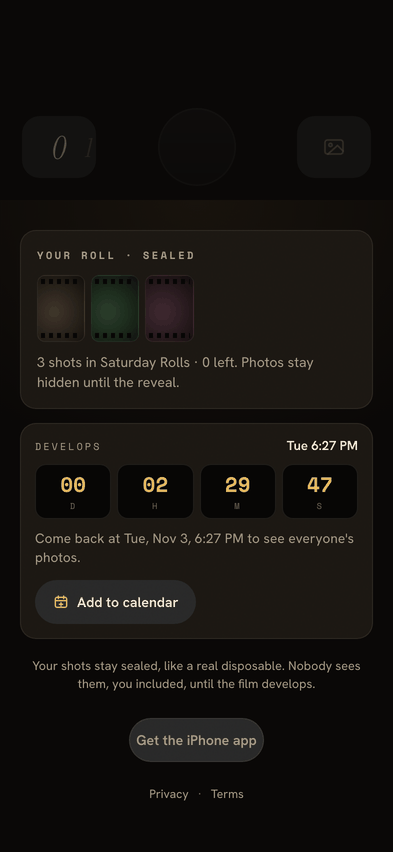
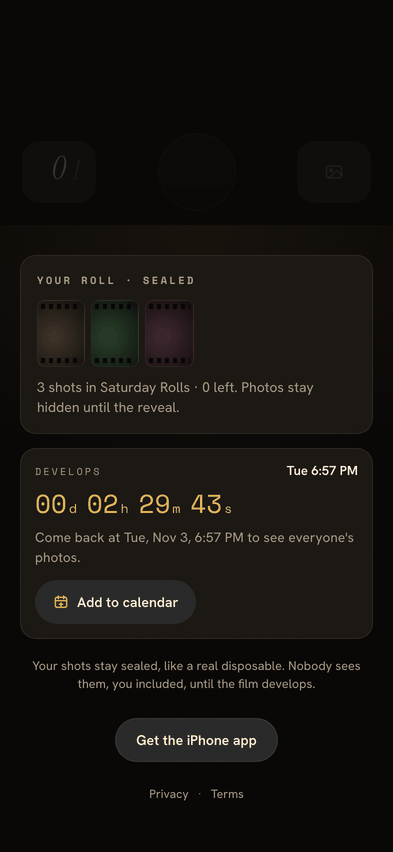
Web join camera: QA fixes (focus trap on WebKit, layout, app fidelity)
- Focus trap always moves focus itself, so Safari's default Tab can't leave the
  name sheet, QR sheet or lightbox; the page behind is inert while open.
  Focus returns to the QR button / Join button even where clicks don't focus.
- Viewfinder sits under the header; the flash/zoom/flip row collapses when the
  browser offers none; app spacing and 18/20 px glyphs; muted subtitle.
- Counter: one neighbour each side at the app's 7 pt gap, measured centring.
- Roll finished: app copy ("You're out of shots", serif) and whole-screen dim
  (E2E regex updated for the copy). Single brass reveal readout.
- Name sheet, album (stats, avatars 4 + N, no captions, flat recap CTA, 6 px
  grid), lightbox (edge to edge, cream save, brass close) and capsule toasts
  match the app; "Get the iPhone app" no longer looks disabled.
- Camera stream requested at ~1920 long edge to keep the per-frame GPU upload
  light on mid-range phones; a missing cube is fetched once.

diff --git a/join.html b/join.html
@@ -33,7 +33,7 @@
 <!-- CSP (security L7). script-src allows only same-origin files and the one inline
      script below by hash: after editing that script, run `node scripts/csp-hash.mjs`.
      The invite Worker passes data in a non-executable application/json block. -->
-<meta http-equiv="Content-Security-Policy" content="default-src 'self'; script-src 'self' 'sha256-mkZNaMJGRH/qTK672dEB/vyqcUiq5PVKREojTLIS2lI='; style-src 'self' 'unsafe-inline' https://fonts.googleapis.com; font-src https://fonts.gstatic.com; img-src 'self' data: blob: https:; media-src 'self' blob: https:; connect-src 'self' https://elated-gopher-868.convex.site https://elated-gopher-868.convex.cloud https://resilient-goat-339.convex.site https://resilient-goat-339.convex.cloud https://media.getfilmsera.cam; base-uri 'none'; form-action 'self'; object-src 'none'" />
+<meta http-equiv="Content-Security-Policy" content="default-src 'self'; script-src 'self' 'sha256-HsMN/+o3fMmspB1YfvcPYee+7n3/ZYbMvvz3W8i/G38='; style-src 'self' 'unsafe-inline' https://fonts.googleapis.com; font-src https://fonts.gstatic.com; img-src 'self' data: blob: https:; media-src 'self' blob: https:; connect-src 'self' https://elated-gopher-868.convex.site https://elated-gopher-868.convex.cloud https://resilient-goat-339.convex.site https://resilient-goat-339.convex.cloud https://media.getfilmsera.cam; base-uri 'none'; form-action 'self'; object-src 'none'" />
 <link rel="preconnect" href="https://fonts.googleapis.com" />
 <link rel="preconnect" href="https://fonts.gstatic.com" crossorigin />
 <link href="https://fonts.googleapis.com/css2?family=Instrument+Serif:ital@0;1&family=Hanken+Grotesk:wght@400;500;600;700&family=Space+Mono:wght@400;700&display=swap" rel="stylesheet" />
@@ -211,12 +211,15 @@
   .panel::before{content:"";position:absolute;top:8px;left:50%;width:36px;height:5px;margin-left:-18px;border-radius:3px;background:rgba(244,236,221,.22);}
   @keyframes up{from{transform:translateY(60px);opacity:.3}}
   @media (min-width:900px){.modal{align-items:center}.panel{border-radius:28px;border-bottom:1px solid var(--hairline);}.panel::before{display:none}}
-  .panel h2{font-family:var(--display);font-weight:400;font-size:34px;line-height:1.02;margin-top:8px;}
+  .panel h2{font-family:var(--display);font-weight:400;font-size:30px;line-height:1.05;margin-top:8px;}
   .panel p.sub{color:var(--muted);font-size:15px;line-height:1.45;margin-top:8px;}
-  .field{width:100%;margin-top:18px;padding:16px 18px;border-radius:14px;background:var(--deep);border:1px solid var(--hair-2);color:var(--cream);font:500 17px var(--body);outline:none;}
+  .field{width:100%;margin-top:22px;padding:14px;border-radius:13px;background:var(--elev);border:1px solid var(--hair-2);color:var(--cream);font:400 16px var(--body);outline:none;}
+  .modal .panel{background:#14110D;}
+  .field:focus-visible{outline:none;}
   .field:focus{border-color:var(--brass);}
   .err{min-height:20px;margin-top:10px;font-size:13.5px;color:#F08A6A;}
-  .panel .cta{margin-top:6px;}
+  .panel .cta,.album .recap{margin-top:6px;padding:14px 24px;background:var(--brass);box-shadow:none;font-family:var(--body);font-size:16px;font-weight:700;letter-spacing:0;}
+  .panel .cta::after,.album .recap::after{display:none;}
   .panel .cta[disabled]{opacity:.6;}
   .panel .fine a{color:var(--cream);}
   .linkbtn{display:block;margin:14px auto 0;font-size:14px;color:var(--muted);text-decoration:underline;text-underline-offset:3px;}
@@ -232,17 +235,17 @@
   .g-top{display:flex;align-items:center;gap:8px;padding:4px 14px 0;}
   .hdr-btn{width:44px;height:44px;flex:none;display:grid;place-items:center;border-radius:12px;color:var(--cream);text-decoration:none;transition:transform .2s var(--spring);}
   .hdr-btn:active{transform:scale(.92);}
-  .hdr-btn svg{width:22px;height:22px;}
+  .hdr-btn svg{width:20px;height:20px;}
   .hdr-btn.tile-btn{background:var(--graphite);}
-  .hdr-btn.tile-btn svg{width:20px;height:20px;}
+  .hdr-btn.tile-btn svg{width:18px;height:18px;}
   .hdr-btn .mark{width:24px;height:18px;}
   .g-head{flex:1;min-width:0;text-align:center;}
   .g-title{font-family:var(--display);font-weight:400;font-size:26px;line-height:1.1;white-space:nowrap;overflow:hidden;text-overflow:ellipsis;}
   .g-sub{margin-top:2px;font-size:15px;color:var(--muted);white-space:nowrap;overflow:hidden;text-overflow:ellipsis;font-variant-numeric:tabular-nums;}
-  .g-sub .chip{display:inline;padding:0;border:0;background:none;-webkit-backdrop-filter:none;backdrop-filter:none;font:inherit;letter-spacing:0;text-transform:none;color:var(--cream);}
+  .g-sub .chip{display:inline;padding:0;border:0;background:none;-webkit-backdrop-filter:none;backdrop-filter:none;font:inherit;letter-spacing:0;text-transform:none;color:inherit;}
 
   /* Viewfinder card: shaped to the look's output aspect, as big as the space allows. */
-  .vf-wrap{flex:1;min-height:0;margin:14px 16px 0;container-type:size;display:grid;place-items:center;}
+  .vf-wrap{flex:1;min-height:0;margin:14px 16px 0;container-type:size;display:grid;place-items:start center;}
   .vf{position:relative;width:min(100cqw,100cqh * var(--ar,.75));aspect-ratio:var(--ar,.75);border-radius:28px;overflow:hidden;background:var(--deep);
     -webkit-mask-image:-webkit-radial-gradient(white,black);touch-action:pan-y;}
   .vf video,.vf canvas{position:absolute;inset:0;width:100%;height:100%;object-fit:cover;display:block;}
@@ -254,6 +257,9 @@
     color:var(--muted);font-size:15px;line-height:1.45;background:radial-gradient(80% 60% at 40% 45%,rgba(230,180,80,.07),transparent 70%),var(--deep);}
   .vf .msg .mark{width:42px;height:31px;opacity:.55;}
   .vf .msg h2{font-family:var(--display);font-weight:400;font-size:28px;line-height:1.05;color:var(--cream);}
+  .vf .msg.done{gap:16px;}
+  .vf .msg.done h2{font-size:24px;}
+  .vf .msg.done p{font-family:var(--display);font-size:18px;line-height:1.3;color:var(--muted);}
   .vf .msg.done{background:rgba(0,0,0,.82);}
   .vf .msg.done .mark{opacity:1;width:52px;height:38px;}
   .vf .msg .pill{margin-top:4px;display:inline-flex;align-items:center;min-height:44px;padding:0 24px;border-radius:999px;background:var(--brass);color:var(--brass-deep);
@@ -278,10 +284,11 @@
   @keyframes ret{0%{transform:scale(1.5);opacity:0}25%{transform:scale(1);opacity:1}80%{opacity:1}100%{opacity:0}}
 
   /* Flash · zoom · flip */
-  .ctrl{display:grid;grid-template-columns:44px 1fr 44px;align-items:center;padding:14px 22px 0;}
+  .ctrl{display:grid;grid-template-columns:44px 1fr 44px;align-items:center;padding:22px 22px 0;}
+  .ctrl.empty{display:none;}
   .icon-btn{width:44px;height:44px;display:grid;place-items:center;color:var(--cream);transition:transform .2s var(--spring);}
   .icon-btn:active{transform:scale(.9);}
-  .icon-btn svg{width:24px;height:24px;}
+  .icon-btn svg{width:20px;height:20px;}
   .icon-btn.on{color:var(--brass);}
   .icon-btn[hidden],.zoom[hidden]{display:grid;visibility:hidden;}
   .zoom{justify-self:center;display:flex;gap:2px;padding:4px;border-radius:999px;background:var(--graphite);}
@@ -291,13 +298,13 @@
   /* Deck: frame counter · shutter · sealed roll */
   .deck{display:flex;align-items:center;justify-content:space-between;padding:0 22px;margin-top:auto;padding-top:14px;}
   .tile{position:relative;width:74px;height:62px;flex:none;border-radius:18px;background:var(--graphite);overflow:hidden;display:grid;place-items:center;}
-  .counter .track{position:absolute;left:50%;top:0;bottom:0;width:calc(var(--slot,30px) * 5);margin-left:calc(var(--slot,30px) * -2.5);display:flex;align-items:center;padding-top:2px;
+  .counter .track{position:absolute;left:0;top:50%;margin-top:-20px;height:40px;display:flex;align-items:baseline;gap:7px;white-space:nowrap;
     transition:transform .14s cubic-bezier(.2,.9,.3,1);}
-  .counter .track span{width:var(--slot,30px);flex:none;text-align:center;font-family:var(--display);font-style:italic;font-size:26px;line-height:1;color:rgba(168,156,136,.45);}
+  .counter .track span{flex:none;font-family:var(--display);font-style:italic;font-size:26px;line-height:1;color:rgba(168,156,136,.45);}
   .counter .track span.cur{font-size:32px;color:var(--cream);}
   .sealed{color:rgba(168,156,136,.7);transition:transform .2s var(--spring);}
   .sealed:active{transform:scale(.97);}
-  .sealed svg{width:24px;height:24px;}
+  .sealed svg{width:20px;height:20px;}
   .sealed .pip{position:absolute;right:5px;bottom:5px;width:16px;height:16px;border-radius:50%;background:rgba(0,0,0,.55);display:none;}
   .sealed.busy .pip,.sealed.warn .pip{display:block;}
   .sealed.busy .pip::after{content:"";position:absolute;inset:3px;border-radius:50%;border:1.5px solid rgba(255,255,255,.25);border-top-color:#fff;animation:spin .8s linear infinite;}
@@ -308,7 +315,8 @@
   .shutter[disabled]{opacity:.35;cursor:default;}
   .shutter.busy::after{content:"";position:absolute;inset:-7px;border-radius:50%;border:2px solid transparent;border-top-color:var(--brass);animation:spin .8s linear infinite;}
   @keyframes spin{to{transform:rotate(360deg)}}
-  .cam.done .ctrl,.cam.done .deck{opacity:.3;pointer-events:none;}
+  .cam.done .ctrl,.cam.done .deck,.cam.done .g-top{opacity:.18;transition:opacity .3s;}
+  .cam.done .ctrl,.cam.done .deck{pointer-events:none;}
   .cam.done .deck .sealed{pointer-events:auto;}
   .round{width:44px;height:44px;border-radius:50%;display:grid;place-items:center;background:var(--graphite);color:var(--cream);}
   .round svg{width:22px;height:22px;}
@@ -330,17 +338,22 @@
   .neg.pending{opacity:.55;}
   .d-note{margin-top:10px;color:var(--muted);font-size:14px;line-height:1.45;}
   .guest .develop{margin-top:0;border-radius:16px;background:var(--elev);border-color:var(--hairline);}
-  .guest .develop .unit{background:var(--deep);}
+  .guest .develop .clock{display:flex;align-items:baseline;gap:10px;}
+  .guest .develop .unit{display:flex;align-items:baseline;gap:2px;padding:0;background:none;border:0;}
+  .guest .develop .unit b{font-size:26px;font-weight:400;}
+  .guest .develop .unit i{font-size:13px;letter-spacing:0;color:var(--brass);text-transform:lowercase;margin:0;}
   .guest .develop .cal{display:inline-flex;align-items:center;justify-content:center;gap:8px;min-height:44px;margin-top:2px;padding:0 18px;border-radius:999px;
     background:var(--graphite);font-size:14px;font-weight:600;color:var(--cream);text-decoration:none;justify-self:start;}
   .guest .develop .cal svg{width:16px;height:16px;color:var(--brass);}
   .guest .fine{margin-top:4px;}
   .d-foot{display:flex;flex-direction:column;align-items:center;gap:10px;margin-top:10px;color:var(--dim);font-size:12px;}
   .d-foot a{color:var(--muted);text-decoration:none;display:inline-flex;align-items:center;min-height:44px;padding:0 6px;}
+  .d-foot .btn2{color:var(--cream);padding:0 20px;}
 
-  .toast{position:fixed;left:50%;top:calc(76px + env(safe-area-inset-top));transform:translateX(-50%);z-index:70;width:max-content;max-width:min(92vw,440px);padding:11px 16px;border-radius:16px;
+  .toast{position:fixed;left:50%;top:calc(76px + env(safe-area-inset-top));transform:translateX(-50%);z-index:70;width:max-content;max-width:min(92vw,440px);padding:11px 18px;border-radius:22px;
     background:rgba(28,24,19,.96);border:1px solid var(--hair-2);font-size:14px;font-weight:500;line-height:1.4;text-align:center;box-shadow:0 18px 40px rgba(0,0,0,.5);
     animation:tin .35s var(--spring);}
+  .toast.ok{padding:10px 18px;border-radius:999px;background:var(--brass);border:0;color:var(--brass-deep);font-family:var(--mono);font-size:13px;font-weight:700;}
   @keyframes tin{from{opacity:0;transform:translate(-50%,-10px)}}
 
   /* ---- Album (FilmDetailView after the reveal) ---- */
@@ -348,37 +361,39 @@
     background:radial-gradient(120% 50% at 30% 0%,#18130D,transparent 70%);}
   .album .g-top{padding:0;justify-content:space-between;}
   .album .g-top .chip{max-width:60%;overflow:hidden;text-overflow:ellipsis;white-space:nowrap;}
-  .eyebrow-in{margin-top:26px;font-size:12px;letter-spacing:4px;color:var(--cream);}
-  .a-title{font-family:var(--display);font-weight:400;font-size:clamp(36px,10vw,46px);line-height:1.02;margin-top:12px;text-wrap:balance;}
+  .eyebrow-in{margin-top:26px;font-size:12px;letter-spacing:3px;color:var(--cream);}
+  .a-title{font-family:var(--display);font-weight:400;font-size:34px;line-height:1.05;margin-top:12px;text-wrap:balance;}
   .stats{display:grid;grid-template-columns:repeat(3,1fr);gap:10px;margin-top:22px;min-height:52px;}
-  .stats b{display:block;font-family:var(--mono);font-weight:400;font-size:24px;line-height:1.1;color:var(--cream);}
-  .stats span{display:block;margin-top:6px;font-family:var(--mono);font-size:11px;letter-spacing:1.4px;text-transform:uppercase;color:var(--muted);}
+  .stats b{display:block;font-family:var(--mono);font-weight:400;font-size:22px;line-height:1.1;color:var(--cream);}
+  .stats span{display:block;margin-top:8px;font-family:var(--mono);font-size:11px;letter-spacing:0;text-transform:uppercase;color:var(--muted);}
   .faces{display:flex;margin-top:18px;min-height:30px;}
-  .faces span{width:30px;height:30px;border-radius:50%;display:grid;place-items:center;margin-right:-7px;font-family:var(--display);font-size:15px;color:var(--cream);box-shadow:0 0 0 2px var(--bg);}
-  .album .recap{margin-top:22px;}
-  .grid{display:grid;grid-template-columns:repeat(3,1fr);gap:7px;margin-top:22px;}
+  .faces span{width:26px;height:26px;border-radius:50%;display:grid;place-items:center;margin-right:-8px;font-family:var(--display);font-size:13px;color:var(--cream);box-shadow:0 0 0 2px var(--bg);}
+  .faces .more-faces{margin-left:14px;width:auto;box-shadow:none;font-family:var(--mono);font-size:11px;color:var(--muted);}
+  .album .recap{margin-top:22px;min-height:56px;font-size:17px;}
+  .grid{display:grid;grid-template-columns:repeat(3,1fr);gap:6px;margin-top:22px;}
   .grid button{position:relative;aspect-ratio:1;overflow:hidden;border-radius:14px;background:var(--elev);display:block;width:100%;transition:transform .2s var(--spring);}
   .grid button:active{transform:scale(.97);}
   .grid img{width:100%;height:100%;object-fit:cover;display:block;opacity:0;transform:scale(1.04);transition:opacity .6s var(--ease),transform .9s var(--ease);}
   .grid img.loaded{opacity:1;transform:none;}
-  .grid .by{position:absolute;left:0;right:0;bottom:0;padding:18px 8px 6px;font-size:10.5px;font-weight:600;text-align:left;white-space:nowrap;overflow:hidden;text-overflow:ellipsis;
-    background:linear-gradient(transparent,rgba(0,0,0,.72));}
+  .grid .by{position:absolute;width:1px;height:1px;overflow:hidden;clip:rect(0 0 0 0);white-space:nowrap;}
   .grid .play{position:absolute;right:6px;top:6px;width:22px;height:22px;border-radius:50%;background:rgba(0,0,0,.55);display:grid;place-items:center;}
   .grid .play svg{width:10px;height:10px;}
   .album > .queue{min-height:18px;margin-top:14px;text-align:center;font-family:var(--mono);font-size:11.5px;color:var(--muted);}
   .album > .queue.warn{color:#F0B36A;}
   .empty-album{margin-top:30px;text-align:center;color:var(--muted);font-size:15px;line-height:1.5;}
   .more{margin:16px auto 0;}
-  .lightbox{position:fixed;inset:0;z-index:65;display:flex;flex-direction:column;background:#000;animation:fade .2s var(--ease);}
+  .lightbox{position:fixed;inset:0;z-index:65;display:flex;flex-direction:column;background:#060504;animation:fade .2s var(--ease);}
   .lb-top,.lb-bot{display:flex;align-items:center;justify-content:space-between;gap:10px;padding:calc(10px + env(safe-area-inset-top)) 16px 10px;}
-  .lb-bot{padding:10px 16px calc(16px + env(safe-area-inset-bottom));}
-  .lb-stage{flex:1;min-height:0;display:flex;align-items:center;justify-content:center;padding:0 8px;}
-  .lb-stage img,.lb-stage video{max-width:100%;max-height:100%;object-fit:contain;border-radius:6px;animation:lbin .35s var(--ease);}
+  .lb-bot{padding:12px 18px calc(18px + env(safe-area-inset-bottom));}
+  .lb-top [data-x]{background:rgba(0,0,0,.5);color:var(--brass);}
+  .lb-top [data-x] svg{width:16px;height:16px;stroke-width:3;}
+  .lb-stage{flex:1;min-height:0;display:flex;align-items:center;justify-content:center;padding:0;}
+  .lb-stage img,.lb-stage video{max-width:100%;max-height:100%;object-fit:contain;border-radius:0;animation:lbin .35s var(--ease);}
   @keyframes lbin{from{opacity:0;transform:scale(.97)}}
   .lb-who b{display:block;font-family:var(--display);font-weight:400;font-size:22px;line-height:1.1;}
   .lb-who span{font-family:var(--mono);font-size:11px;color:var(--muted);}
   .lb-nav{display:flex;gap:8px;}
-  .lb-bot .btn2{background:var(--brass);color:var(--brass-deep);font-family:var(--mono);font-weight:700;border:0;}
+  .lb-bot .btn2{flex:1;min-height:52px;border-radius:16px;background:var(--cream);color:var(--bg);font-family:var(--body);font-size:15px;font-weight:700;border:0;}
 
   @media (min-width:900px){
     .cam-mode{display:grid;grid-template-columns:420px 360px;gap:56px;align-items:center;justify-content:center;max-width:none;}
@@ -712,10 +727,11 @@
     });
   }
 
-  function toast(msg, ms = 4200) {
+  /** kind "ok" = the app's brass confirmation capsule. */
+  function toast(msg, ms = 4200, kind) {
     document.querySelectorAll(".toast").forEach(t => { if (t.textContent === msg) t.remove(); });
     const el = document.createElement("div");
-    el.className = "toast"; el.setAttribute("role", "status"); el.textContent = msg;
+    el.className = kind === "ok" ? "toast ok" : "toast"; el.setAttribute("role", "status"); el.textContent = msg;
     document.body.appendChild(el);
     setTimeout(() => el.remove(), ms);
   }
@@ -772,11 +788,12 @@
         <p class="fine">No account needed. By joining you agree to the <a href="/terms.html" target="_blank" rel="noopener">Terms</a> and <a href="/privacy.html" target="_blank" rel="noopener">Privacy Policy</a>.</p>
         <button class="linkbtn" type="button" data-close>Not now</button>
       </form>`;
-    const opener = document.activeElement;
-    document.body.appendChild(m);
+    const active = document.activeElement;
+    const opener = active && active.matches && active.matches("[data-webjoin]") ? active : app.querySelector("[data-webjoin]");
+    document.body.appendChild(m); setInert(true);
     const form = m.querySelector("form"), input = form.name, err = form.querySelector(".err"), btn = form.querySelector(".cta");
     const close = (restore = true) => {
-      m.remove(); document.removeEventListener("keydown", onKey);
+      m.remove(); setInert(false); document.removeEventListener("keydown", onKey);
       if (restore && opener && opener.isConnected && opener.focus) opener.focus();
     };
     const onKey = e => { if (e.key === "Escape") close(); else trapTab(e, form); };
@@ -817,10 +834,14 @@
     const els = [...root.querySelectorAll('a[href],button:not([disabled]),input:not([disabled]),video[controls],[tabindex]:not([tabindex="-1"])')]
       .filter(el => el.offsetParent !== null || el === document.activeElement);
     if (!els.length) return;
-    const first = els[0], last = els[els.length - 1];
-    if (e.shiftKey && (document.activeElement === first || !root.contains(document.activeElement))) { e.preventDefault(); last.focus(); }
-    else if (!e.shiftKey && (document.activeElement === last || !root.contains(document.activeElement))) { e.preventDefault(); first.focus(); }
+    // Always move focus ourselves: Safari's default Tab skips buttons and links,
+    // so leaving it to the browser lets focus escape behind the dialog (QA F1).
+    e.preventDefault();
+    const n = els.length, i = els.indexOf(document.activeElement);
+    els[i < 0 ? (e.shiftKey ? n - 1 : 0) : (i + (e.shiftKey ? -1 : 1) + n) % n].focus();
   }
+  /** Keep the page behind a dialog out of reach (Tab, VoiceOver) while it's open. */
+  const setInert = on => { try { app.inert = on; if (on) app.setAttribute("aria-hidden", "true"); else app.removeAttribute("aria-hidden"); } catch (_) {} };
 
   // ---------------------------------------------------------------- pending shots (IndexedDB)
 
@@ -878,7 +899,6 @@
   //   across long edge, density sigma, chroma] · s sound · h haptic style
   const LOOKS = {"dzfilm":{"n":"DZ Film","a":1.333,"v":[0.4,2.2],"s":"slr","h":"slr","g":[2400,0.058,0.5]},"disposable":{"n":"Disposable","a":1.5,"v":[1.25,3],"s":"disposable","h":"disposable","g":[1600,0.088,0.5]},"instant":{"n":"Instant","a":1.0,"v":[0.25,2],"s":"instant","h":"instant","g":[300,0.006,0]},"vhs":{"n":"VHS","a":1.333,"v":[0.336,2.2],"s":"video","h":"video"},"eightmm":{"n":"8mm","a":1.333,"v":[1,2],"s":"video","h":"video","g":[390,0.09,0.5]},"digi":{"n":"Digicam","a":1.333,"v":[0.3,2],"s":"digital","h":"digital"},"note":{"n":"Notebook","a":1.333,"v":[0.403,2.2],"s":"digital","h":"slr","g":[2700,0.03,0.5]},"oldiphone":{"n":"Pocket Cam","a":1.333,"v":[1.2,2.2],"s":"digital","h":"digital"},"slide":{"n":"Slide","a":1.333,"v":[0.6,2],"s":"slr","h":"slr","g":[3300,0.04,0.5]},"cpm35":{"n":"Sprocket 35","a":1.5,"v":[0.6,2.2],"s":"slr","h":"slr","g":[2100,0.05,0.5]},"glow":{"n":"Glow","a":1.333,"v":[0.4,2.2],"s":"slr","h":"slr","g":[1800,0.052,0.5]},"d3d":{"n":"Anaglyph","a":1.333,"v":[0.448,2.2],"s":"digital","h":"digital","g":[2400,0.037,0.5]},"instasqc":{"n":"Pastel Square","a":1.0,"v":[0.25,2],"s":"instant","h":"instant","g":[300,0.005,0]},"sixteenmm":{"n":"16mm","a":1.333,"v":[0.896,2.2],"s":"video","h":"video","g":[690,0.07,0.3]},"dcr":{"n":"Camcorder","a":1.333,"v":[0.269,2.2],"s":"video","h":"video"},"kino":{"n":"Kino","a":2.39,"v":[0.5,2.2],"s":"slr","h":"slr","g":[2400,0.041,0.5]},"s67":{"n":"Heirloom","a":1.167,"v":[0.35,2],"s":"slr","h":"slr","g":[4700,0.034,0.5]},"grf":{"n":"Noir","a":1.5,"v":[1,2.5],"s":"slr","h":"slr","g":[1000,0.11,0]},"original":{"n":"Original","a":1.5,"v":[0.5,2.2],"s":"slr","h":"slr","g":[2400,0.045,0.5]},"college":{"n":"Yearbook","a":1.333,"v":[1.2,2.5],"s":"disposable","h":"disposable","g":[1800,0.062,0.5]},"noga":{"n":"Light Leak","a":1.333,"v":[1.75,2.5],"s":"slr","h":"slr","g":[2100,0.06,0.5]},"gulf":{"n":"Sunbleached","a":1.5,"v":[0.6,2.2],"s":"slr","h":"slr","g":[2400,0.029,0.5]},"vfone":{"n":"Keychain","a":1.333,"v":[0.5,2],"s":"digital","h":"digital"},"tam":{"n":"Toy Cam","a":1.0,"v":[2.5,3.5],"s":"disposable","h":"disposable","g":[2100,0.06,0.5]},"ne135":{"n":"Midnight","a":1.35,"v":[0.784,2.2],"s":"slr","h":"slr","g":[1800,0.055,0.5]}};
   // A film with no (or an unknown) presetID shoots the app's default look.
-  // (The /web/* film summary doesn't carry presetID yet; the invite Worker's copy may.)
   const lookIdOf = f => {
     const id = (f && f.presetID) || (injected && injected.film && injected.film.presetID);
     return LOOKS[id] ? id : "original";
@@ -891,7 +911,7 @@
   function loadLut(id) {
     if (!lutCache[id]) lutCache[id] = new Promise((res, rej) => {
       const im = new Image(); im.decoding = "async";
-      im.onload = () => res(im); im.onerror = () => { delete lutCache[id]; rej(new Error("lut")); };
+      im.onload = () => res(im); im.onerror = () => rej(new Error("lut")); // a missing cube is asked for once per page
       im.src = `/assets/looks/${id}.png`;
     });
     return lutCache[id];
@@ -1267,7 +1287,7 @@ void main(){vec2 q=vec2(v.x,1.-v.y);if(mirror>.5)q.x=1.-q.x;
             <div class="hint" id="hint" aria-live="polite"></div>
             <div class="blink${look.h === "instant" ? " white" : ""}" id="flash"></div>
           </div></div>
-          <div class="ctrl">
+          <div class="ctrl empty">
             <button class="icon-btn" id="torch" type="button" aria-label="Flash" aria-pressed="false" hidden>${ICON.boltOff}</button>
             <div class="zoom" id="zoom" role="group" aria-label="Zoom" hidden></div>
             <button class="icon-btn" id="flip" type="button" aria-label="Switch camera, front or back" hidden>${ICON.flip}</button>
@@ -1330,10 +1350,10 @@ void main(){vec2 q=vec2(v.x,1.-v.y);if(mirror>.5)q.x=1.-q.x;
           <button class="copy" type="button" data-copylink>Copy link</button></div>
         <button class="linkbtn" type="button" data-close>Done</button>
       </div>`;
-    const opener = document.activeElement;
-    document.body.appendChild(m);
+    const opener = document.getElementById("qrbtn"); // WebKit doesn't focus clicked buttons (QA F2)
+    document.body.appendChild(m); setInert(true);
     const panel = m.querySelector(".panel");
-    const close = () => { m.remove(); document.removeEventListener("keydown", onKey); if (opener && opener.isConnected && opener.focus) opener.focus(); };
+    const close = () => { m.remove(); setInert(false); document.removeEventListener("keydown", onKey); if (opener && opener.isConnected && opener.focus) opener.focus(); };
     const onKey = e => { if (e.key === "Escape") close(); else trapTab(e, panel); };
     document.addEventListener("keydown", onKey);
     m.addEventListener("click", e => { if (e.target === m) close(); });
@@ -1368,13 +1388,15 @@ void main(){vec2 q=vec2(v.x,1.-v.y);if(mirror>.5)q.x=1.-q.x;
     el.setAttribute("aria-label", spoken);
     const prev = el.dataset.v === undefined ? null : +el.dataset.v;
     if (prev === value) return;
-    const slot = String(value + 2).length > 2 ? 58 : String(value + 2).length > 1 ? 44 : 30;
-    track.style.setProperty("--slot", `${slot}px`);
-    track.innerHTML = [value - 2, value - 1, value, value + 1, value + 2]
-      .map((n, i) => `<span class="${i === 2 ? "cur" : ""}">${n >= 0 ? n : ""}</span>`).join("");
+    track.innerHTML = [value - 1, value, value + 1] // the app shows one neighbour each side
+      .map((n, i) => `<span class="${i === 1 ? "cur" : ""}">${n >= 0 ? n : "\u2007"}</span>`).join("");
+    const centre = i => { const c = track.children[i]; return c.offsetLeft + c.offsetWidth / 2; };
+    const place = () => { track.style.left = `${el.clientWidth / 2 - centre(1)}px`; };
+    place();
+    if (document.fonts && document.fonts.status !== "loaded") document.fonts.ready.then(place);
     if (prev !== null && !reduced) {
-      const dir = Math.sign(value - prev);
-      track.style.transition = "none"; track.style.transform = `translateX(${dir * slot}px)`;
+      const dir = Math.sign(value - prev); // the old number sits one step that way in the new strip
+      track.style.transition = "none"; track.style.transform = `translateX(${centre(1) - centre(1 - dir)}px)`;
       void track.offsetWidth;
       track.style.transition = ""; track.style.transform = "";
     }
@@ -1417,7 +1439,8 @@ void main(){vec2 q=vec2(v.x,1.-v.y);if(mirror>.5)q.x=1.-q.x;
         if (rollWasOpen && !msg.classList.contains("done")) { sound("roll_finished"); haptic("instant"); }
         rollWasOpen = false;
         msg.style.display = "flex"; msg.classList.add("done");
-        msg.innerHTML = `<span class="mark"></span><h2>That's your roll.</h2><span>Your shots are sealed until the film develops.</span><button class="pill" type="button" data-details>See when it develops</button>`;
+        const n = G.shotsUsed + G.pending;
+        msg.innerHTML = `<span class="mark"></span><h2>You're out of shots</h2><p>${n} ${n === 1 ? "shot" : "shots"} in ${esc(G.film.title)}.<br>Photos stay hidden until reveal.</p><button class="pill" type="button" data-details>See when it develops</button>`;
         msg.querySelector("[data-details]").addEventListener("click", () => document.getElementById("info").click());
       }
     }
@@ -1484,6 +1507,12 @@ void main(){vec2 q=vec2(v.x,1.-v.y);if(mirror>.5)q.x=1.-q.x;
     if (v.requestVideoFrameCallback) vfVideoCb = v.requestVideoFrameCallback(frame); else vfRaf = requestAnimationFrame(frame);
   }
 
+  /** Collapse the flash · zoom · flip row when this browser offers none of them. */
+  function syncCtrl() {
+    const row = document.querySelector(".ctrl"); if (!row) return;
+    row.classList.toggle("empty", [...row.children].every(el => el.hidden));
+  }
+
   function setupTrackControls() {
     const torchBtn = document.getElementById("torch"), zoomBox = document.getElementById("zoom");
     track = stream && stream.getVideoTracks()[0] || null;
@@ -1505,6 +1534,7 @@ void main(){vec2 q=vec2(v.x,1.-v.y);if(mirror>.5)q.x=1.-q.x;
     };
     setZoom.paint = paint;
     if (stops.length >= 2) { if (zoomNow !== 1) setZoom(zoomNow); paint(); }
+    syncCtrl();
   }
   async function setZoom(zv) {
     const box = document.getElementById("zoom");
@@ -1554,7 +1584,9 @@ void main(){vec2 q=vec2(v.x,1.-v.y);if(mirror>.5)q.x=1.-q.x;
     if (!navigator.mediaDevices || !navigator.mediaDevices.getUserMedia || !window.isSecureContext) return fallback("This browser can't show a live viewfinder.");
     try {
       stream = await navigator.mediaDevices.getUserMedia({ audio: false,
-        video: { facingMode: { ideal: facing }, width: { ideal: 2560 }, height: { ideal: 1920 } } });
+        // ~1920 long edge: every frame is uploaded to the GPU for the graded
+        // viewfinder, and 2560×1920 (5 MP × 30 fps) is too heavy for mid-range phones.
+        video: { facingMode: { ideal: facing }, width: { ideal: 1920 }, height: { ideal: 1440 } } });
       if (mode !== "camera") return stopCamera();
       v.srcObject = stream; v.classList.toggle("mirror", facing === "user");
       await v.play().catch(() => {});
@@ -1565,11 +1597,12 @@ void main(){vec2 q=vec2(v.x,1.-v.y);if(mirror>.5)q.x=1.-q.x;
         const cams = (await navigator.mediaDevices.enumerateDevices()).filter(d => d.kind === "videoinput");
         flip.hidden = cams.length < 2;
       } catch (_) { flip.hidden = true; }
+      syncCtrl();
     } catch (e) {
       fallback(e && e.name === "NotAllowedError" ? "Camera access is off for this page." : "The camera isn't available here.");
     }
     function fallback(why) {
-      stream = null; flip.hidden = true;
+      stream = null; flip.hidden = true; syncCtrl();
       msg.style.display = "flex";
       msg.innerHTML = `<span class="mark"></span><span>${esc(why)}<br>Tap the shutter to take a photo with your phone's camera.</span>`;
     }
@@ -1776,7 +1809,8 @@ void main(){vec2 q=vec2(v.x,1.-v.y);if(mirror>.5)q.x=1.-q.x;
       <div><b>${esc(when.toLocaleDateString(undefined, { month: "short", day: "numeric" }))}</b><span>Developed</span></div>
       <div><b>${authors.length}</b><span>${authors.length === 1 ? "Person" : "People"}</span></div>`;
     const faces = document.getElementById("faces");
-    if (faces) faces.innerHTML = authors.slice(0, 8).map((a, i) => `<span style="background:hsl(${Math.round(NEG_HUES[(i + 2) % NEG_HUES.length] * 360)} 28% 40%)">${esc(initials(a).slice(0, 2))}</span>`).join("");
+    if (faces) faces.innerHTML = authors.slice(0, 4).map((a, i) => `<span style="background:hsl(${Math.round(NEG_HUES[(i + 2) % NEG_HUES.length] * 360)} 28% 40%)">${esc(initials(a).slice(0, 2))}</span>`).join("")
+      + (authors.length > 4 ? `<span class="more-faces">+${authors.length - 4}</span>` : "");
   }
 
   /**
@@ -1851,7 +1885,7 @@ void main(){vec2 q=vec2(v.x,1.-v.y);if(mirror>.5)q.x=1.-q.x;
     const lb = document.createElement("div");
     lb.className = "lightbox"; lb.setAttribute("role", "dialog"); lb.setAttribute("aria-modal", "true");
     lb.setAttribute("aria-label", "Photo viewer");
-    document.body.appendChild(lb);
+    document.body.appendChild(lb); setInert(true);
     const show = n => {
       i = Math.max(0, Math.min(albumItems.length - 1, n));
       const p = albumItems[i];
@@ -1880,7 +1914,7 @@ void main(){vec2 q=vec2(v.x,1.-v.y);if(mirror>.5)q.x=1.-q.x;
     lb.addEventListener("touchstart", e => { x0 = e.touches[0].clientX; }, { passive: true });
     lb.addEventListener("touchend", e => { if (x0 === null) return; const dx = e.changedTouches[0].clientX - x0; if (Math.abs(dx) > 50) show(i + (dx < 0 ? 1 : -1)); x0 = null; });
     function close() {
-      lb.remove(); document.removeEventListener("keydown", onKey);
+      lb.remove(); setInert(false); document.removeEventListener("keydown", onKey);
       const tile = document.querySelector(`#grid button[data-i="${i}"]`) || opener;
       if (tile && tile.focus) tile.focus();
     }
@@ -1903,6 +1937,7 @@ void main(){vec2 q=vec2(v.x,1.-v.y);if(mirror>.5)q.x=1.-q.x;
       const a = document.createElement("a");
       a.href = URL.createObjectURL(blob); a.download = name; document.body.appendChild(a); a.click();
       setTimeout(() => { URL.revokeObjectURL(a.href); a.remove(); }, 2000);
+      toast("Saved", 1800, "ok");
     } catch (_) {
       window.open(url, "_blank", "noopener"); // fall back to the full-size file in a new tab
     }
